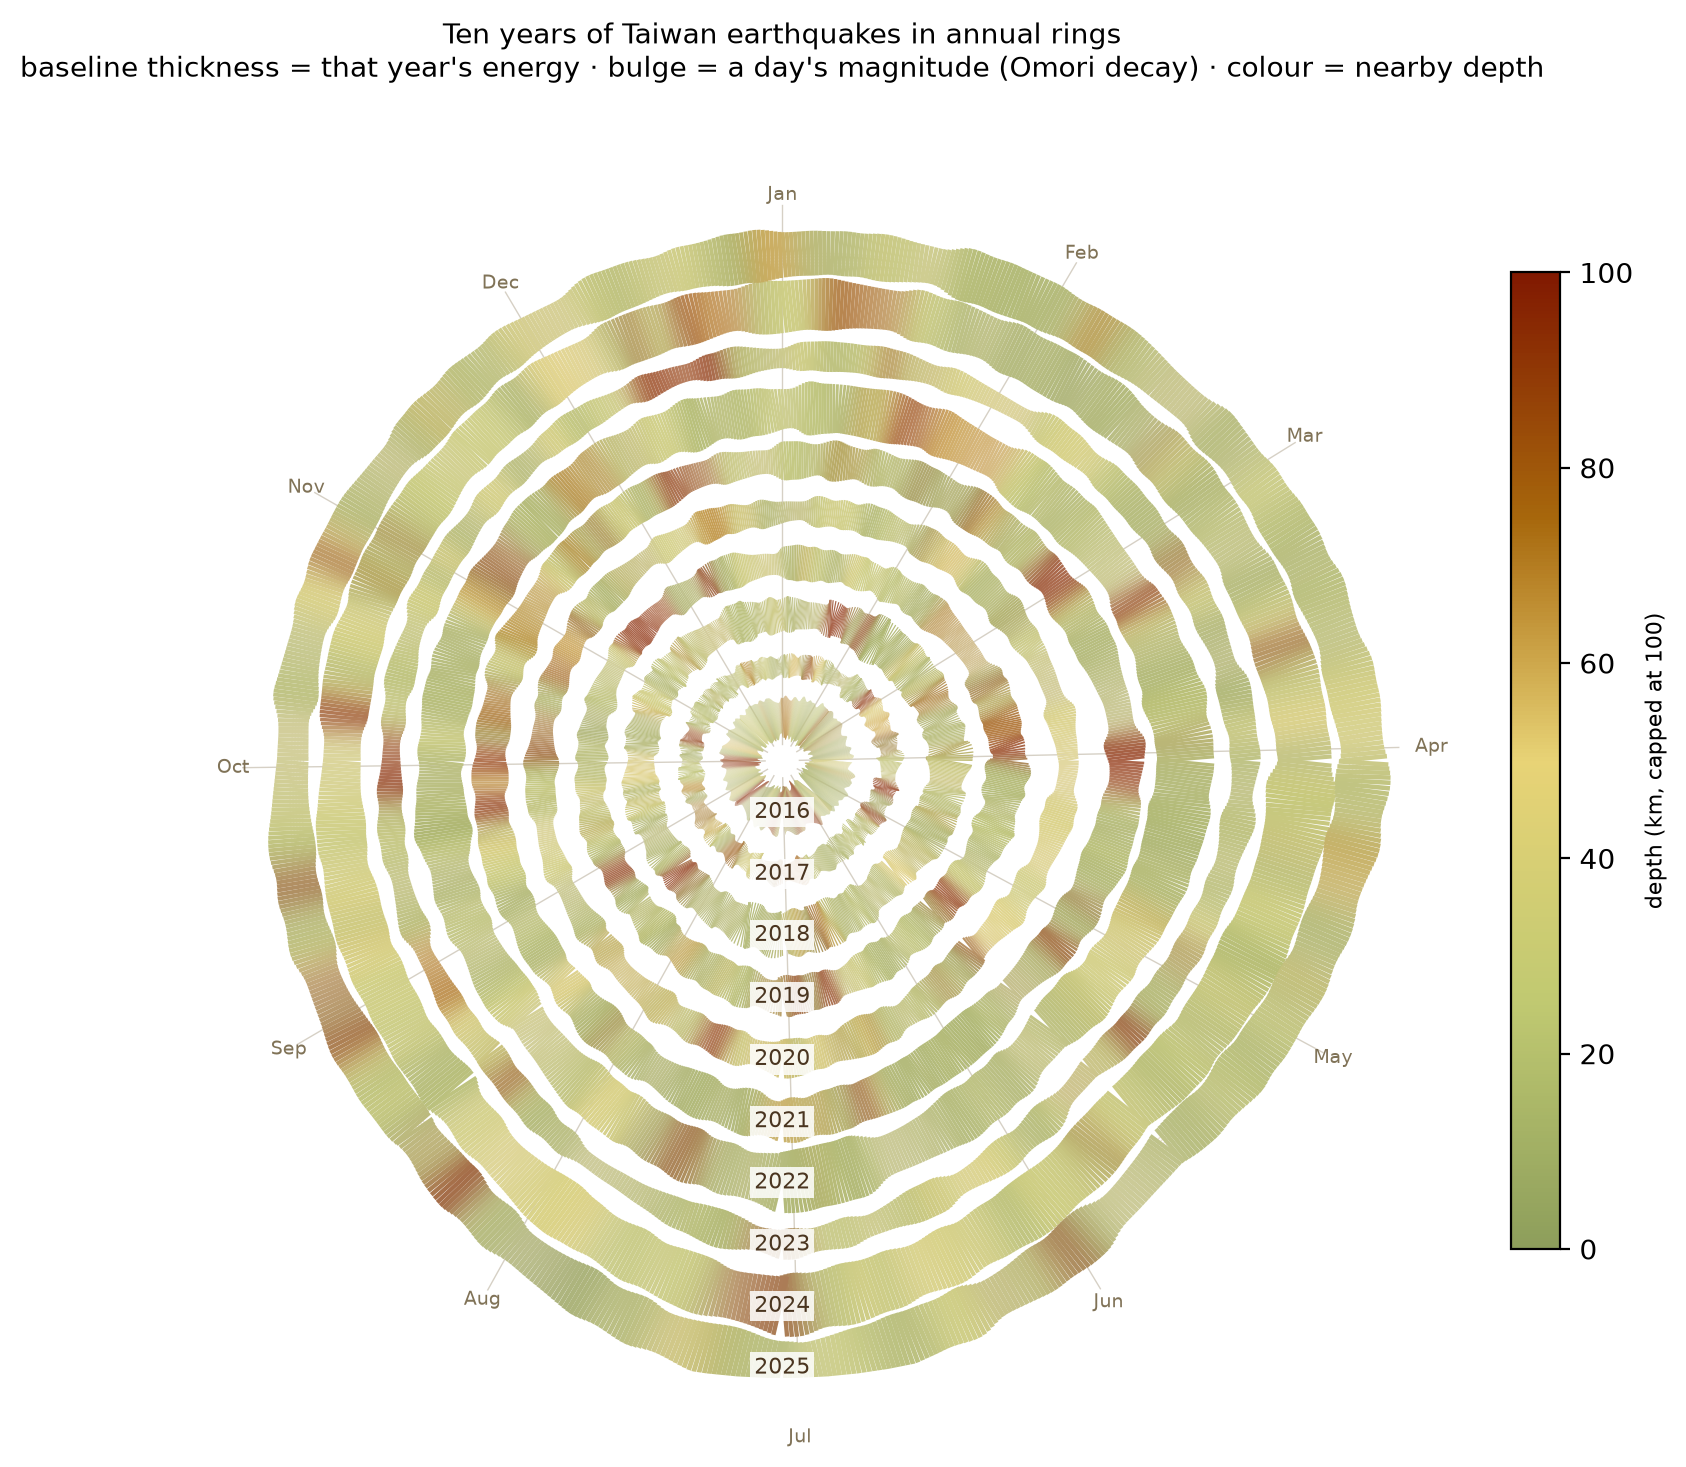
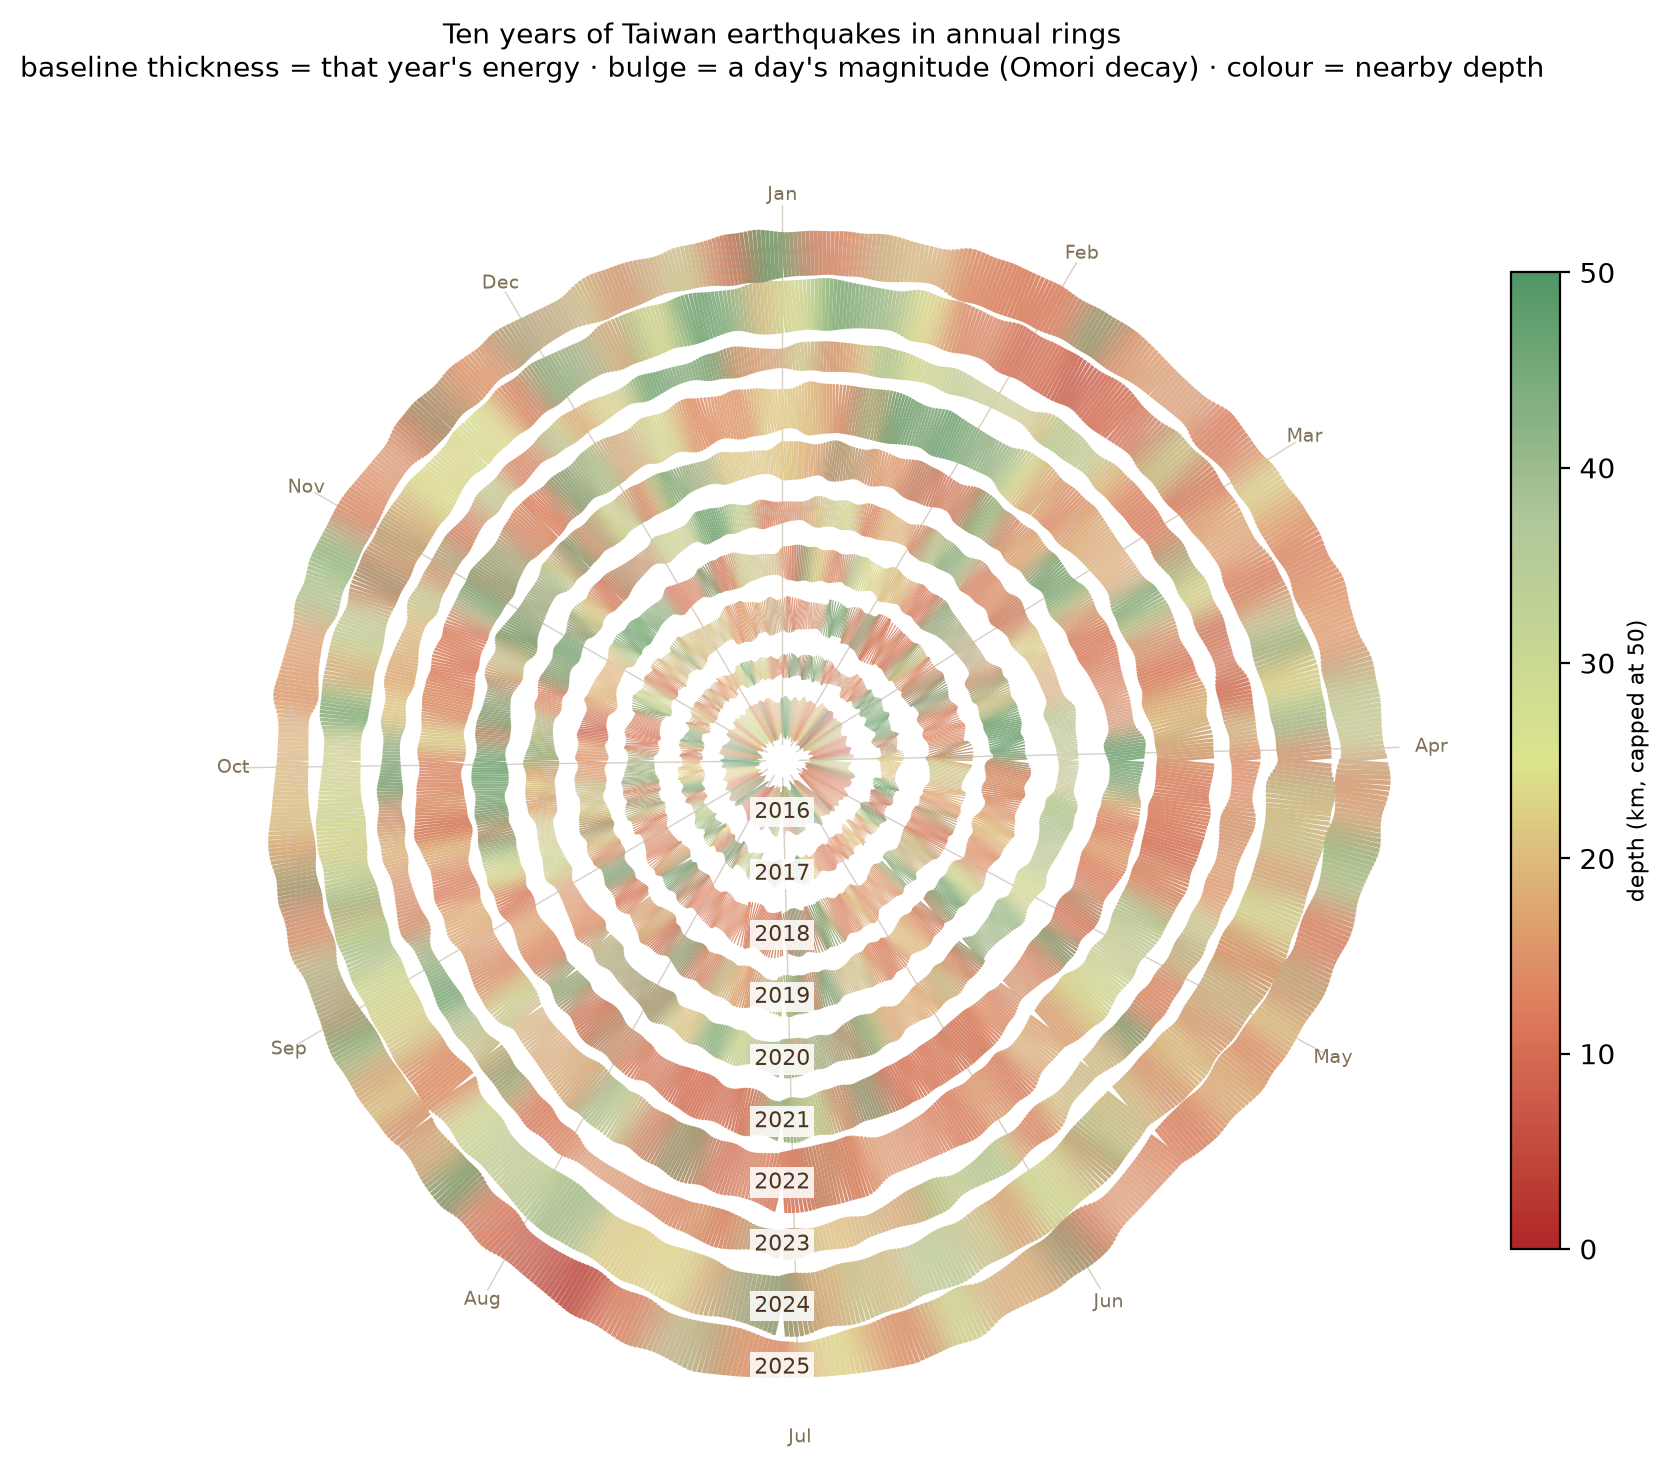
visual9.0/finalize color design

Changed region(s): [[0.1559, 0.1534, 0.9976, 0.9509], [0.1871, 0.0, 0.9353, 0.0613], [0.0312, 0.0307, 0.1559, 0.0613]]

diff --git a/plot.py b/plot.py
@@ -66,15 +66,15 @@ COLOUR_ROUNDING_DAYS = 5
 
 CURVE_RESOLUTION = 800
 
-DEPTH_COLOUR_CAP_KM = 100
+DEPTH_COLOUR_CAP_KM = 50
 
 CMAP = LinearSegmentedColormap.from_list(
-    "wood_depth",
-    ["#8d9e5b",
-     "#c0c971",
-     "#e8d376",
-     "#a7670c",
-     "#811901"],
+    "depth",
+    ["#B02626",   # 0 km   (shallow): strong muted red
+     "#DF7E5E",   # 40 km: warm orange
+     "#DCE58D",   # 60 km: muted sand
+     "#AFC69A",   # 80 km: soft sage
+     "#4F9664"],  # 100 km (deep): muted teal
 )
 WOOD_BG = "#ffffff"
 NEUTRAL_RGB = np.array(to_rgb("#f0e2c8"))

diff --git a/README.md b/README.md
@@ -2,9 +2,13 @@
 
 ![ten years of Taiwan earthquakes in annual rings](out/annual-rings.png)
 
+## Live page
+
+<https://laiziyuzhou4288-creator.github.io/Ten-years-of-Taiwan-earthquakes-in-annual-rings/>
+
 ## The phenomenon
 
-Taiwan sits where the Philippine Sea Plate slides under the Eurasian Plate. The ground there moves every day, and the USGS records every earthquake above magnitude 3.5 in a public file. I looked at ten years of that file — 2016 to 2025 — because I wanted to see whether a year with one big earthquake looks different from a year with many small ones. The picture turns each year into a tree ring: a year with a big earthquake makes a tall spike, and the spike decays the way real aftershock sequences decay.
+Taiwan sits where the Philippine Sea Plate slides under the Eurasian Plate. The ground there moves every day, and the USGS records every earthquake above magnitude 3.5 in a public file. I looked at ten years of that file — 2016 to 2025 — because I wanted to see whether a year with one big earthquake looks different from a year with many small ones. The earthquake conditions of each year are visualized as a circle of annual rings, and the size and depth of the earthquake can be judged by the protrusions and colors
 
 ## The source
 
@@ -16,8 +20,11 @@ It holds 1,765 earthquakes, each one a point with a magnitude (a number, no unit
 
 ## What the picture shows
 
-Each ring is one year, 2016 innermost and 2025 outermost. The height of a bump is that earthquake's magnitude, and the long tail after each bump follows Omori's law — the same shape real aftershock sequences have. Colour is that year's mean depth, warm for shallow and cool for deep.
+Each ring represents one year, 2016 innermost and 2025 outermost. Three things carry information at once:
 
-What it hides: the position of every earthquake is thrown away. Two earthquakes with the same magnitude and depth look identical on the ring, even if one happened under Hualien and the other under Yujing. The picture answers "when and how strong", not "where". It also caps depth colour at 100 km, so anything deeper looks the same as 100 km.
+- the **shape** of the ring — a spike on the day of an earthquake, its height set by magnitude, its long tail following Omori's law, the way real
+  aftershock sequences decay
+- the **width** of the ring — that year's total seismic energy, so a busy year sits visibly thicker even between its spikes
+- the **colour** of the ring — I chose red to represents a shallow earthquake (close to the surface), green to represents a deep one, and pale cream represents no earthquake that day. Shallower earthquakes have a greater destructive effect on the surface. This design not only conforms to people's common sense about the color of safety and warning signals, but also makes powerful earthquakes visually appear to have caused more severe wounds to the growth rings.
 
 ## Run it

diff --git a/PROCESS.md b/PROCESS.md
@@ -2,12 +2,18 @@
 
 ## Tools
 
-I used Claude to help write `plot.py`, especially the Omori's law part and the polar plotting. I wrote `fetch.py` and `explore.py` mostly myself, following the week 3 tutorial scripts.
+I used Claude to help write `make_web.py` — the interactive HTML page — and the taiwan_radius function in `plot.py`. The rest of plot.py is mine, from the week 3 tutorial scripts. I wrote fetch.py and explore.py assist by Claude and DeepSeek.
 
 ## Kept
 
-I kept the Omori's law decay in `plot.py`. The model wrote most of that function, but I checked it against the tutorial — the shape `1/(t+c)^p` is the textbook formula, not something the model invented.
+I kept the Omori's law decay as the shape of the spikes. It is the textbook formula for how aftershock rates fall off after a main shock, and it is what turns a list of magnitudes into a picture that looks like a tree.
+
+I kept three fixes that cut the hover lag: the web build draws at a coarser resolution with wider smoothing to match, the clip-path matplotlib puts on every <path> is stripped out, and each stroke-width reads a CSS variable on its parent <g> so the browser handles the fan-out instead of a JavaScript loop.
 
 ## Rejected
 
-The first version of `plot.py` the model gave me used `pandas` to read the CSV. I threw it out and used the built-in `csv` module instead, because `pandas` is a big dependency for two small files, and the week 3 tutorial uses `csv` too. I also rejected a version that drew one ring per earthquake — it made the picture unreadable and hid the yearly pattern.
+I tried Plotly for the web version and rejected it: its polar axes put zero at east, not north, and the filled rings looked nothing like the matplotlib drawing. I used matplotlib and inline SVG instead.
+
+I tried full SVG interaction (hover every segment, change ring width on selection) and rejected it: 20,000 `<path>` elements were too slow. The final page keeps the picture as one PNG and adds a thin gold outline on the selected year.
+
+I tried a wood-tone background and went back to white, because the rings read more clearly against a plain background.
